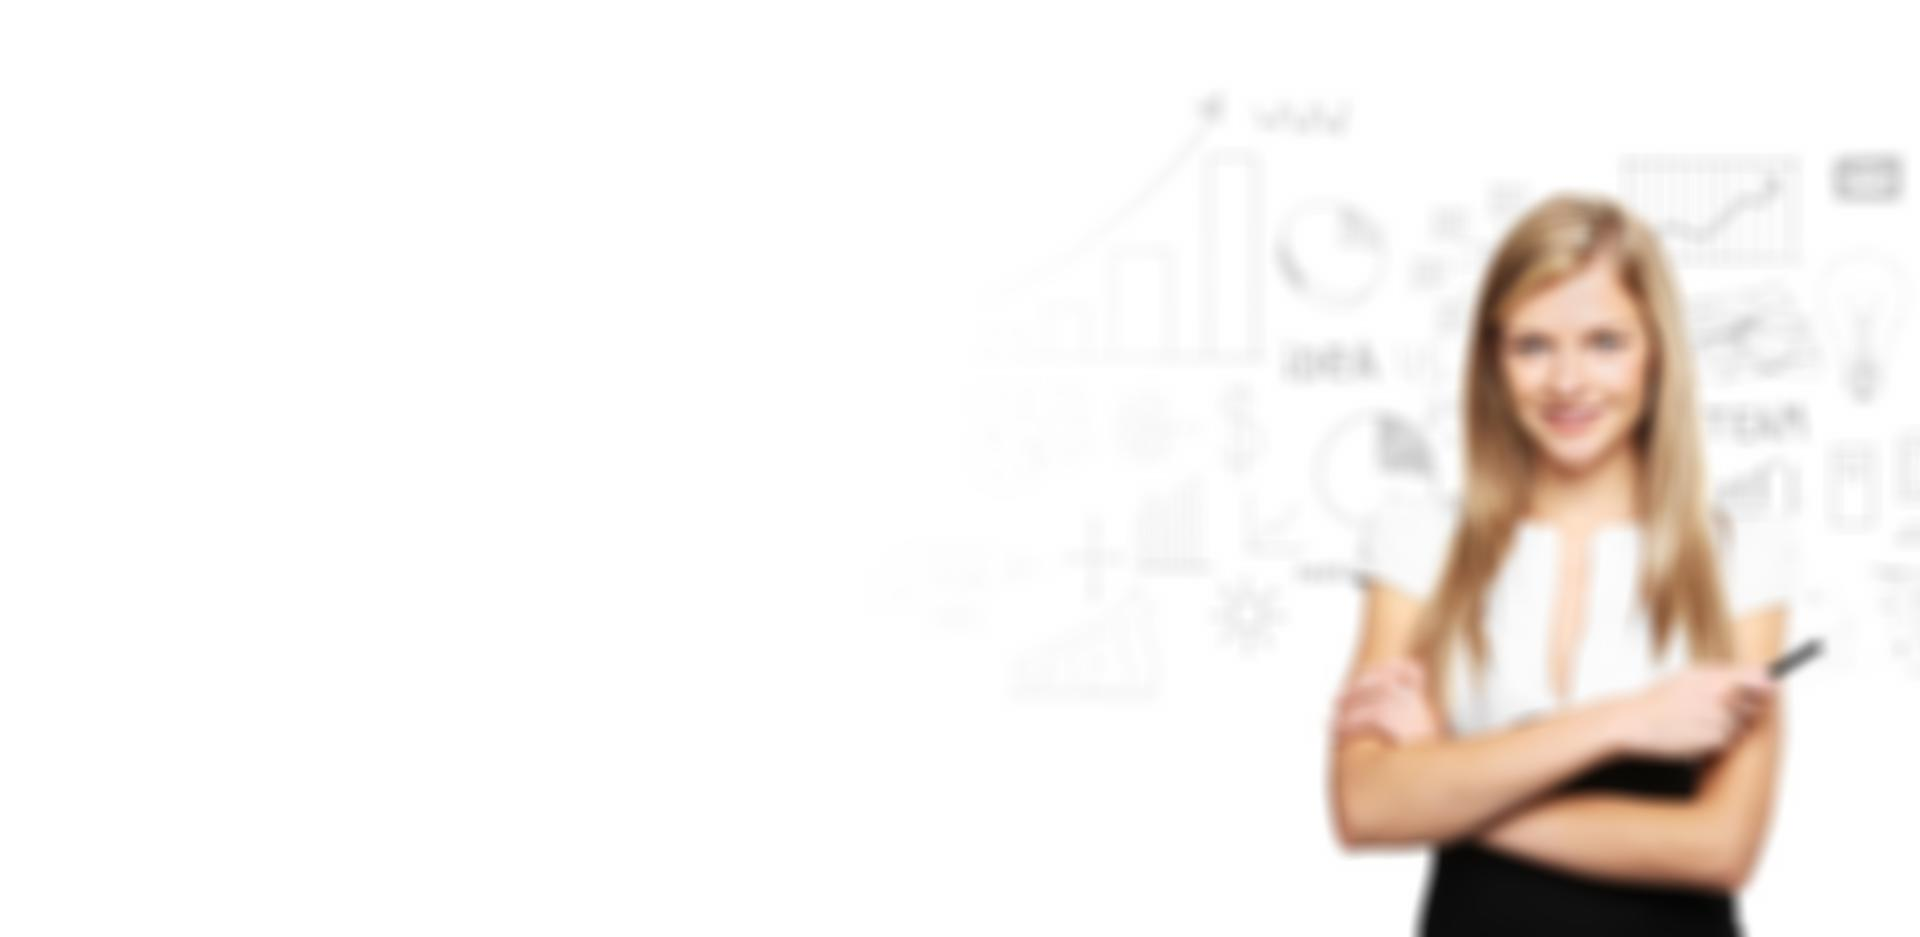
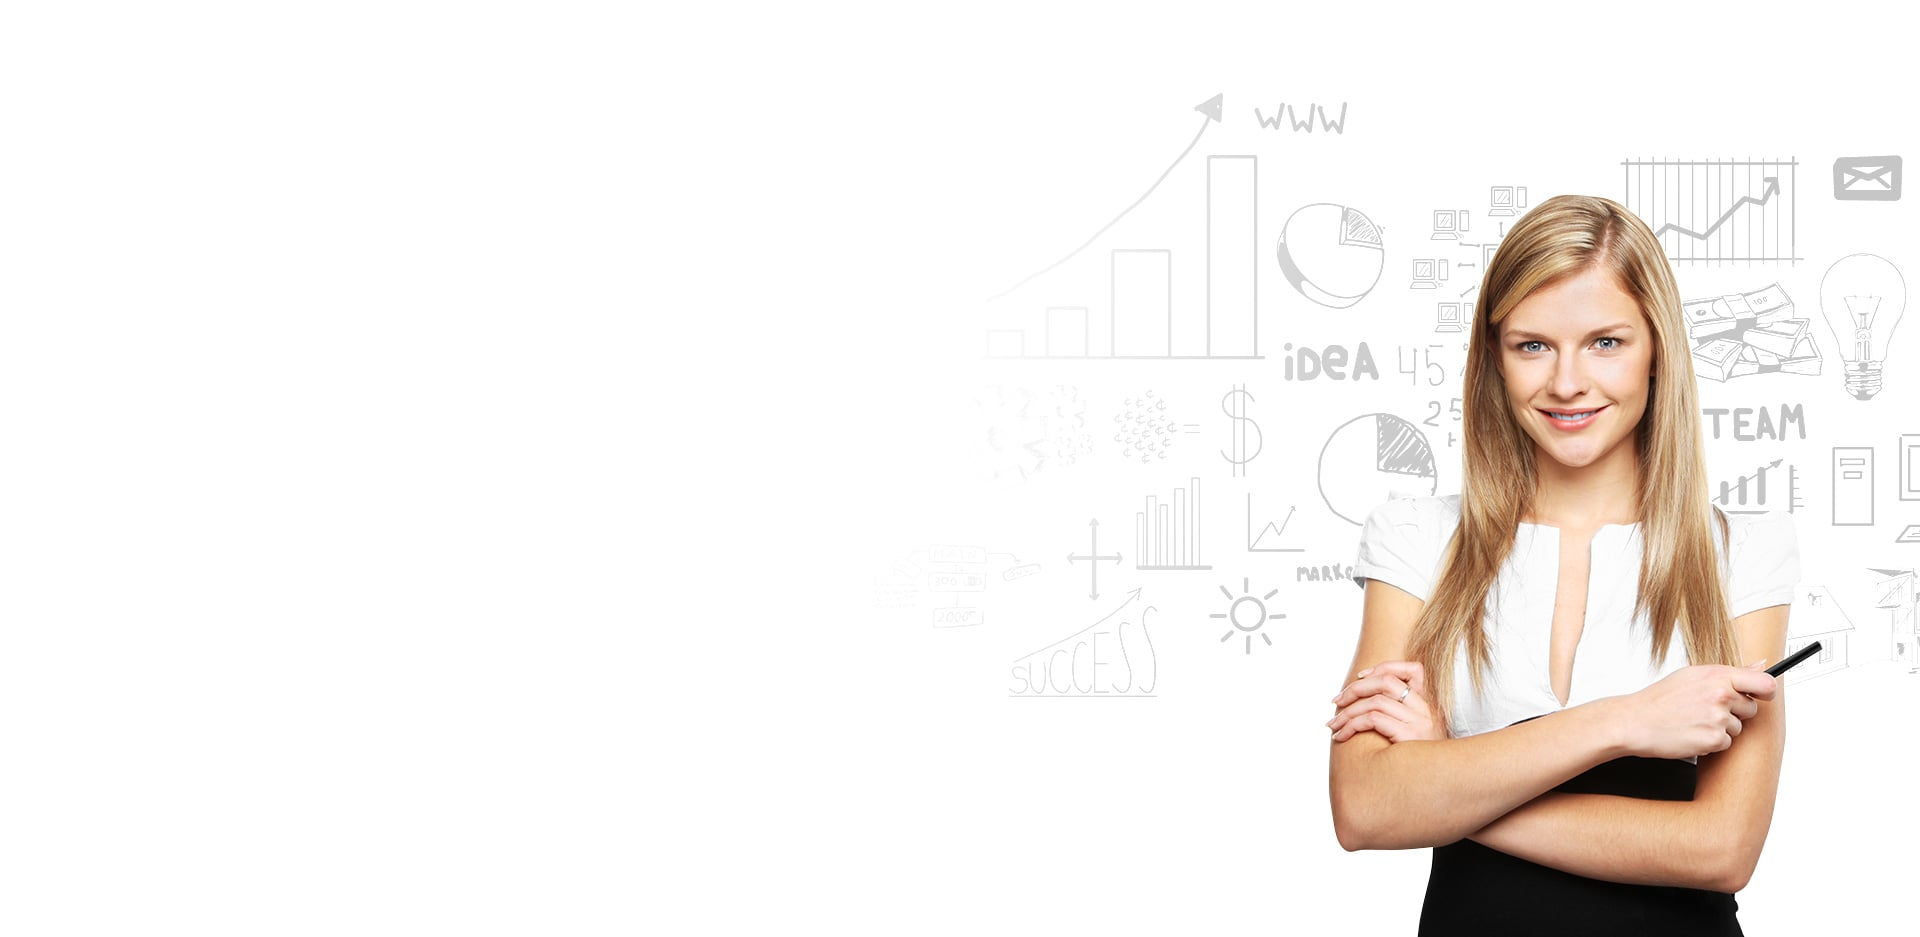
Added New Content to Homepage
- Rearranged sections on the homepage
- Added PM Interview Question Types
- Added Featured Career Coach
- Added Recommended Books
- Added new images

diff --git a/index.html b/index.html
@@ -82,16 +82,24 @@ height="0" width="0" style="display:none;visibility:hidden"></iframe></noscript>
                             </a>
                         </div>
                     </li>
-                    -->                    
+                    -->                                        
+                    <li class="nav-item">
+                        <a class="nav-link smoth-scroll" href="#Services" style="color:#3f3f3f">Services</a>
+                    </li> 
                     <li class="nav-item">
                         <a class="nav-link smoth-scroll" href="#WhatWeDo" style="color:#3f3f3f">What We Do</a>
                     </li> 
                     <li class="nav-item">
-                        <a class="nav-link smoth-scroll" href="#Services" style="color:#3f3f3f">Services</a>
+                        <a class="nav-link smoth-scroll" href="#FeaturedCoach" style="color:#3f3f3f">Featured Coach</a>
                     </li> 
                     <li class="nav-item" style="margin-right:50px;">
                         <a class="nav-link smoth-scroll" href="#Pricing" style="color:#3f3f3f">Pricing</a>
-                    </li>               
+                    </li>   
+                    <!--
+                    <li class="nav-item" style="margin-right:50px;">
+                        <a class="nav-link smoth-scroll" href="#FAQs" style="color:#3f3f3f">FAQs</a>
+                    </li> 
+                    -->              
                     <li class="nav-item">
                         <a href="https://calendly.com/career-amplifier/30min" class="btn-sm btn-white btn-circled" target="_BLANK">30-Min FREE Consult</a>
                     </li>     
@@ -122,62 +130,6 @@ height="0" width="0" style="display:none;visibility:hidden"></iframe></noscript>
     </div>
 </div>
 <!--MAIN HEADER AREA END -->
-
-<!--  ABOUT AREA START  -->
-    <a name="WhatWeDo"></a>
-    <section id="intro" class="section-padding">
-        <div class="container">
-            <div class="row">
-                <div class="col-lg-12 col-sm-12 col-md-12">
-                    <div class="section-heading">
-                        <p class="lead">We provide a complete Career Coach package of resume review, candidacy assessment, interview prep, and offer negotiation. Save time interviewing and become a better story teller.</p>
-                    </div>
-                </div>
-            </div>
-            <div class="row">
-                <div class="col-lg-5  d-none d-lg-block col-sm-12">
-                    <div class="intro-img">
-                        <img src="images/banner/why-choose.png" alt="intro-img" class="img-fluid">
-                    </div>
-                </div>
-                <div class="col-lg-7 col-md-12 col-sm-12 ">                    
-                    <div class="row">
-                        <div class="col-lg-6 col-sm-6 col-md-6">
-                            <div class="intro-box">
-                                <span>01.</span>
-                                <h4>Storytelling 101</h4>
-                                <p>The way you communicate your knowledge and experience is important, both with your resume and your interviews. A foundation of high-quality storytelling is reinforced in each session so that you can craft engaging responses to common questions.</p>
-                            </div>
-                        </div>
-                        <div class="col-lg-6 col-sm-6 col-md-6">
-                            <div class="intro-box">
-                                <span>02.</span>
-                                <h4>Instant Feedback</h4>
-                                <p>Working with a Career Coach means that you receive instant feedback while the conversation is fresh. In each session, you'll make noticeable changes to what you communicate that not only help 'get the marbles out' but that also helps clarify your message.</p>
-                            </div>
-                        </div>
-                    </div>
-                    <div class="row">
-                        <div class="col-lg-6 col-sm-6 col-md-6">
-                            <div class="intro-box">
-                                <span>03.</span>
-                                <h4>Targeted Practice</h4>
-                                <p>The time is yours, so you decide what we focus on during the session. This allows you to ensure specialized attention on your weaker areas. These targeted practice sessions also enable you to move at your own pace.</p>
-                            </div>
-                        </div>
-                        <div class="col-lg-6 col-sm-6 col-md-6">
-                            <div class="intro-box">
-                                <span>04.</span>
-                                <h4>1-Day Scheduling</h4>
-                                <p>You can schedule sessions up to the day before you want the session, so if there's an interview you just learned about or an offer with a deadline, someone will be able to help.</p>
-                            </div>
-                        </div>
-                    </div>                    
-                </div>
-            </div>
-        </div>
-    </section>
-    <!--  ABOUT AREA END  -->
 
 <!--  SERVICE PARTNER START  -->
 <a name="Services"></a>
@@ -271,7 +223,169 @@ height="0" width="0" style="display:none;visibility:hidden"></iframe></noscript>
         </div>
     </section>
     <!--  SERVICE AREA END  -->
+
+<!--  ABOUT AREA START  -->
+    <a name="WhatWeDo"></a>
+    <section id="intro" class="section-padding bg-light">
+        <div class="container">
+            <div class="row">
+                <div class="col-lg-12 col-sm-12 col-md-12">
+                    <div class="section-heading">
+                        <p class="lead">We provide a complete Career Coach package of resume review, candidacy assessment, interview prep, and offer negotiation. Save time interviewing and become a better story teller.</p>
+                    </div>                    
+                    
+                </div>
+            </div>
+            <div class="row">
+                <div class="col-lg-5  d-none d-lg-block col-sm-12">
+                    <div class="intro-img">
+                        <img src="images/banner/why-choose.png" alt="intro-img" class="img-fluid">
+                    </div>
+                </div>
+                <div class="col-lg-7 col-md-12 col-sm-12 ">                    
+                    <div class="row">
+                        <div class="col-lg-6 col-sm-6 col-md-6">
+                            <div class="intro-box">
+                                <span>01.</span>
+                                <h4>Storytelling 101</h4>
+                                <p>The way you communicate your knowledge and experience is important, both with your resume and your interviews. A foundation of high-quality storytelling is reinforced in each session so that you can craft engaging responses to common questions.</p>
+                            </div>
+                        </div>
+                        <div class="col-lg-6 col-sm-6 col-md-6">
+                            <div class="intro-box">
+                                <span>02.</span>
+                                <h4>Instant Feedback</h4>
+                                <p>Working with a Career Coach means that you receive instant feedback while the conversation is fresh. In each session, you'll make noticeable changes to what you communicate that not only help 'get the marbles out' but that also helps clarify your message.</p>
+                            </div>
+                        </div>
+                    </div>
+                    <div class="row">
+                        <div class="col-lg-6 col-sm-6 col-md-6">
+                            <div class="intro-box">
+                                <span>03.</span>
+                                <h4>Targeted Practice</h4>
+                                <p>The time is yours, so you decide what we focus on during the session. This allows you to ensure specialized attention on your weaker areas. These targeted practice sessions also enable you to move at your own pace.</p>
+                            </div>
+                        </div>
+                        <div class="col-lg-6 col-sm-6 col-md-6">
+                            <div class="intro-box">
+                                <span>04.</span>
+                                <h4>1-Day Scheduling</h4>
+                                <p>You can schedule sessions up to the day before you want the session, so if there's an interview you just learned about or an offer with a deadline, someone will be able to help.</p>
+                            </div>
+                        </div>
+                    </div>                    
+                </div>
+            </div>
+        </div>
+    </section>
+    <!--  ABOUT AREA END  -->
     
+
+<!--  SECTION Service-2START  -->
+<section class="section-padding" id="section-strategy">
+    <div class="container">
+        <div class="row">
+            <div class="col-lg-9 text-center text-lg-left">
+                <div class="mb-5">
+                    <h3 class="mb-2">Product Manager Interview Question Types</h3>
+                    <p>Each question type is designed to test different components of the essential skills every product manager needs. Your performance on these questions, not only directly effects the hiring decision but also the compensation package. Career Amplifier can help you navigate these questions.</p>
+                </div>
+            </div>
+        </div>
+        <div class="row">
+            <div class="col-lg-9">
+                <div class="row">
+                    <div class="col-lg-6">
+                        <div class="mb-5">
+                            <span class="icon-3x text-default"><i class="icofont-layers" style="color:#8cc63f"></i></span>
+                            <h4 class="my-3">Improve A Product</h4>
+                            <p>One of the most common product manager questions asked is 'pick a product that you like, and name one improvement'. It's a deceptively simple question that you are fully in control of. Frameworks and how you structure your response matters. A lack of preparation is noticeable, but the good news is that you can reuse your idea in future interviews. </p>
+                        </div>
+                    </div>
+                    <div class="col-lg-6">
+                        <div class="mb-5">
+                            <span class="icon-3x text-default"><i class="icofont-ui-timer" style="color:#8cc63f"></i></span>
+                            <h4 class="my-3">Product Design</h4>
+                            <p>This is the traditional product manager question where you are asked to design a refrigerator for a blind person. It requires a general understanding of technology to do well, and it is intended to assess your organization, framework, and prioritization skills.</p>
+                        </div>
+                    </div>
+                    <div class="col-lg-6">
+                        <div>
+                            <span class="icon-3x text-default"><i class="icofont-rocket" style="color:#8cc63f"></i></span>
+                            <h4 class="my-3">Launch A Product</h4>
+                            <p>For this question, the interviewer has you imagine that you're the PM in charge of a product. What do you launch next? You'll want to use a similar framework to how you practice with Product Design questions. This one can be difficult since the interviewer likely asks this question of every candidate and is able to quickly identify if your solution is strong or not.</p>
+                        </div>
+                    </div>
+                    <div class="col-lg-6">
+                        <div>
+                            <span class="icon-3x text-default"><i class="icofont icofont-chart-bar-graph" style="color:#8cc63f"></i></span>
+                            <h4 class="my-3">Metrics & Data</h4>
+                            <p>There's often an assessment of your analytical skills. In the Facebook product manager interview, it's called 'Execution'. The interviewer provides a scenario where a metric has increased or decreased and you need to decide what to do next. Being able to imagine different possibilities requires a solid understanding of how the product works so that you can identify various options as you narrow down your answer.</p>
+                        </div>
+                    </div>
+                    <div class="col-lg-6">
+                        <div>
+                            <span class="icon-3x text-default"><i class="icofont-ui-browser" style="color:#8cc63f"></i></span>
+                            <h4 class="my-3">Estimation</h4>
+                            <p>Google product manager interviews often include an estimation question. While this is not a question type that you should prepare for heavily, it's one you should practice at least once prior to a Google PM interview. </p>
+                        </div>
+                    </div>                    
+                </div>
+            </div>
+        </div>
+    </div>
+</section>
+<!--  SECTION Service-2 END  -->
+
+
+<!--ABOUT AREA -->
+<a name="FeaturedCoach"></a>
+<section id="about" class="bg-light">
+    <div class="container">
+        <div class="row">
+            <div class="col-lg-4 col-sm-12 col-md-4">
+                <div class="about-content text-center">
+                    <img src="images/coaches/elliot.png" class="img-thumbnail">
+                </div>
+            </div>
+            <div class="col-lg-8 col-sm-12 col-md-8">
+                <div class="about-content">
+                    <h5 class="subtitle">Featured Career Coach</h5>
+                    <h3>Elliot Koss</h3>
+                    <p>Columbia Business School Career Coach since Aug 2017 helping MBA and MS students successfully prepare and earn Product Manager, Product Marketing Manager, Operations, Strategy, and Analyst offers from Apple, Google, Amazon, Facebook, Microsoft, and more. Currently, Director of Product Analytics at BritBox, a streaming media service with 2M+ subscriptions. Actively building <a href="https://plufin.com">PluFin</a> (a personal finance tool in the FinTech SaaS space) along with an NFT project planned for 2022. Product Owner & Leader with 15+ years of work experience (Apple, LendUp, Casetext, BBC America) leading teams to strategize Product roadmaps for B2C and B2B products while prioritizing and measuring KPIs, developing A/B experiments, and acquiring & engaging existing users.</p>
+                    <div class="row">
+                        <a href="https://www.linkedin.com/in/elliotkoss/" target="_BLANK">
+                            <img src="images/socialmedia/linkedin-logo-small.png" class="img-fluid" style="padding:15px">
+                        </a>                
+                        <a href="https://www.twitter.com/elliotkoss/" target="_BLANK">
+                            <img src="images/socialmedia/twitter-logo-small.png" class="img-fluid" style="padding:15px">
+                        </a>
+                        <a href="https://github.com/elliotkoss/" target="_BLANK">
+                            <img src="images/socialmedia/github-logo-small.png" class="img-fluid" style="padding:15px">
+                        </a>
+                    </div>
+
+                    <ul class="about-list">
+                        <li><i class="icofont icofont-check-circled"></i> Resume Review</li>
+
+                        <li><i class="icofont icofont-check-circled"> </i> Mock Behavioral Interviews</li>
+
+                        <li><i class="icofont icofont-check-circled"> </i> Skills Assessment</li>
+
+                        <li><i class="icofont icofont-check-circled"> </i> Mock Product Interviews</li>                        
+
+                        <li><i class="icofont icofont-check-circled"> </i> Application Strategy</li>
+
+                        <li><i class="icofont icofont-check-circled"></i> Offer Negotiation</li>
+                    </ul>
+                </div>
+            </div>
+        </div>
+    </div>
+</section>
+<!--ABOUT AREA END -->
+
 <!-- PRICE AREA START  -->
     <a name="Pricing"></a>
     <section id="pricing" class="section-padding" style="background-color:#8cc63f">
@@ -361,6 +475,53 @@ height="0" width="0" style="display:none;visibility:hidden"></iframe></noscript>
             </div>
         </div>
     </section>
+
+    <!--  BLOG AREA START  -->
+    <section id="blog" class="section-padding">
+        <div class="container">
+            <div class="row">
+                <div class="col-lg-12 col-sm-12 m-auto">
+                    <div class="section-heading">
+                        <h4 class="section-title">Recommended Books</h4>
+                        <div class="line"></div>
+                        <p>There are a couple books that Career Amplifier recommends to help you with your interview prep.</p>
+                    </div>
+                </div>
+            </div>
+
+            <div class="row">
+                <div class="col-lg-6 col-sm-6 col-md-6">
+                    <div class="blog-block text-center">
+                        <a href="https://www.amazon.com/dp/0984782818" target="_BLANK">
+                            <img src="images/books/cracking-the-pm-interview-small.png" alt="" class="img-fluid">
+                            <div class="blog-text text-left">
+                                <h6 class="author-name"><span>Cracking the PM Interview</span>Gayle Laakmann McDowell | Jackie Bavaro</h6>
+                                <div class="h5 my-2 d-inline-block">
+                                   Best PM Primer & Best Product Question Breakdown
+                                </div>
+                                <p>This is the first book we recommend to someone looking to start their product manager career. McDowell and Bavaro have experience at some of the largest tech companies, and they detail how the product role is slightly different at each company. The last third of the book has what we consider to be the most in-depth breakdown of the product manager interview. This is the best book if you're just starting your product journey or if you need a refresher on the interview structure and product manager frameworks commonly used.</p>
+                            </div>
+                        </a>
+                    </div>
+                </div>
+                <div class="col-lg-6 col-sm-6 col-md-6">
+                    <div class="blog-block text-center">
+                        <a href="https://www.amazon.com/dp/0998120499" target="_BLANK">
+                            <img src="images/books/decode-and-conquer-small.png" alt="" class="img-fluid">
+                            <div class="blog-text text-left">
+                                <h6 class="author-name"><span>Decode and Conquer</span>Lewis Lin</h6>
+                                <div class="h5 my-2 d-inline-block">
+                                    Best Interview Dialogue Examples
+                                </div>
+                                <p>Decode and Conquer is one of the most commonly referenced books when preparing for your product manager interview. It's completely focused on the product questions with less background on the PM role, and it does an amazing job of capturing dialogues for how to approach and frame your response. When you're first beginning on your journey, the product manager questions may seem simple and possibly too easy, and Lin allows you to get a better glimpse of what is possible.</p>
+                            </div>
+                        </a>
+                    </div>
+                </div>                
+            </div>
+        </div>
+    </section>
+    <!--  BLOG AREA END  -->
     <!-- PRICE AREA END  -->
 <!--  TESTIMONIAL AREA START  -->
    <!--

diff --git a/README.md b/README.md
@@ -8,32 +8,35 @@ This is a static website that's hosted in an AWS S3 bucket with Stripe Payment L
 
 Have a question, tweet at us @careeramp_
 
-## v0.0.2 - Payments
+## v0.0.3 - Added New Content to Homepage
 
-- Create payment-confirmation.html
-- Add 'noindex' to payment-confirmation.html and call-scheduled.html
-- Stripe payment links redirects to payment-confirmation.html for tracking
-- Update Google Tag Manager (GTM) to trigger conversion to Google Analytics (GA)
-- Pass 'amount' utm param value in GTM
-- Update GA to track the conversion
+- Rearranged sections on the homepage
+- Added PM Interview Question Types
+- Added Featured Career Coach
+- Added Recommended Books
+- Added new images
 
 ## Upcoming
 
-I may convert these to issues at some point.
+I NEED to convert these to issues at some point.
 
+- SSL + Cloudfront (AWS, no GitHub changes)
+- Page Speed Improvements (see page speed score)
+- Add FAQ section to homepage
+- Add The Product Manager Role section to homepage
 - Nagging issue: The goal tracking in GA seems off. The events appear to track as expected, but they aren't tracking as goals. Something for later.
 - Meta description to render specific text and image when the link is shared
 - FB Pixel + Facebook Retargeting + Don't market to converted users
 - Privacy policy
-- SSL + Cloudfront (AWS, no GitHub changes)
 - Add more keywords
-- remove .html from urls
+- remove .html from urls (this may be more effort than it's worth.)
 - 1st A/B experiment - 'Featured Career Coach' (image, short bio, Twitter + LinkedIn)
 - New page (/[coach-name]) to feature a Career Coach (image, bio, Twitter + LinkedIn, Recommended Books, Recommended Articles, Best Advice)
 - Tech Career Coaching page
 - Product Marketing Management page
 - Add GTM to pass utm_source and other marketing UTM params from one page to another. Tutorial with Code https://www.analyticsmania.com/post/transfer-utm-parameters-google-tag-manager/
 - Pass utm param tracking. https://easyautotagging.com/track-custom-utm-parameters-google-analytics/
+- Add Amazon affiliate links to the book recommendation page
 
 More A/B experiment ideas
 - 'What to expect for the first session' section on the homepage
@@ -43,6 +46,15 @@ More A/B experiment ideas
 - Generic homepage with references to Tech / PM / PMM coaching
 
 ## History
+
+v0.0.2 - Payments
+
+- Create payment-confirmation.html
+- Add 'noindex' to payment-confirmation.html and call-scheduled.html
+- Stripe payment links redirects to payment-confirmation.html for tracking
+- Update Google Tag Manager (GTM) to trigger conversion to Google Analytics (GA)
+- Pass 'amount' utm param value in GTM
+- Update GA to track the conversion
 
 v0.0.1 - Hello World
 
